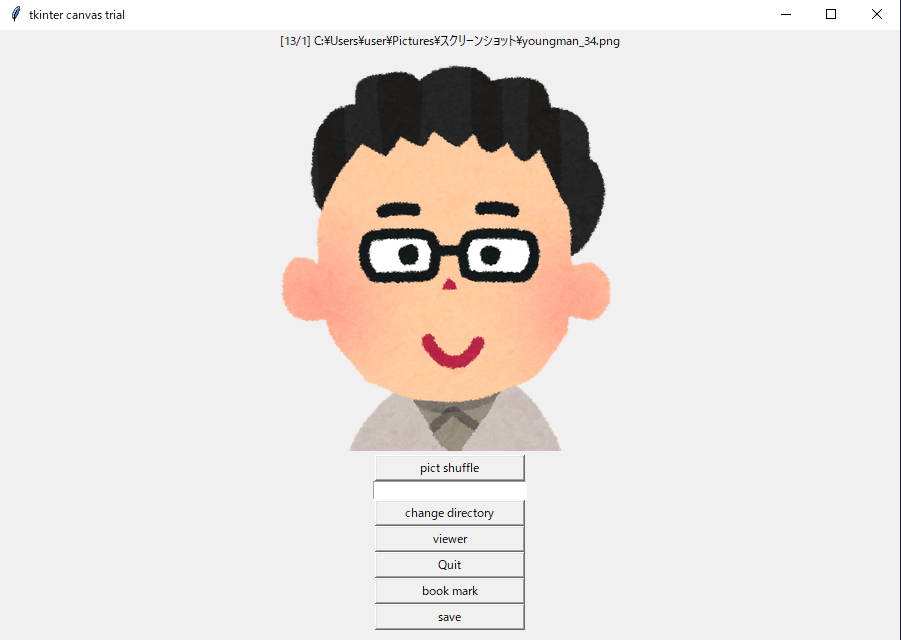
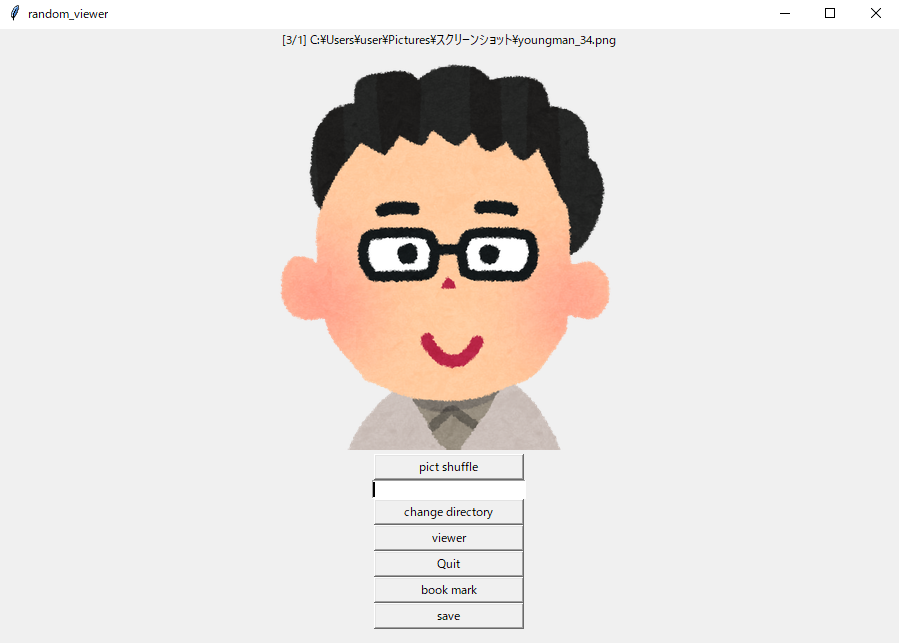
update

diff --git a/random_viewer.py b/random_viewer.py
@@ -22,7 +22,7 @@ class Application(tkinter.Frame):
 
     def __init__(self, master: Any) -> None:
         tkinter.Frame.__init__(self, master)
-        master.title("tkinter canvas trial")
+        master.title("random_viewer")
         self.img_target: Any = None
         self.current_dir: str = str(argv[1]) if len(argv) >= 2 else os.getcwd()
         self.first_dir: str = str(argv[1]) if len(argv) >= 2 else os.getcwd()
